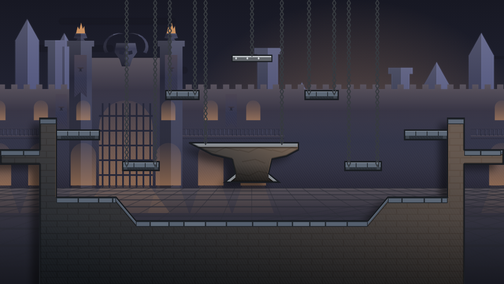
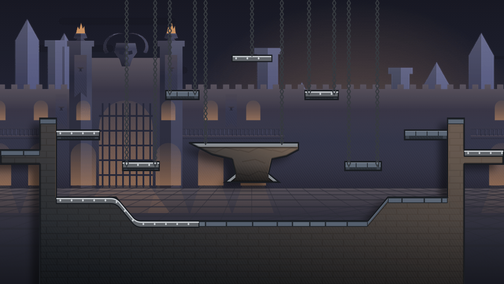
Cartoline delle mappe dell'allenamento col ferro nuovo, controllo in pari, GIOCA senza testo piccolo (#441)
* Cartoline delle mappe dell'allenamento col ferro nuovo, e il controllo che le tiene in pari

Claude-Session: https://claude.ai/code/session_01XmXLjjyDe991ytzD7vmWfG

* GIOCA della campagna: il sottotitolo non scende più sotto i 16 px

Claude-Session: https://claude.ai/code/session_01XmXLjjyDe991ytzD7vmWfG

---------

diff --git a/tools/grafica/miniature_mappe.py b/tools/grafica/miniature_mappe.py
@@ -8,8 +8,12 @@
 #
 #   python3 tools/grafica/miniature_mappe.py      (dalla cartella del repository, dopo
 #                                                      mappe_dipinte.py)
-import json, os, subprocess
-from PIL import Image
+#   python3 tools/grafica/miniature_mappe.py --controlla    (solo il controllo, in tutti.sh:
+#                     dice se una mappa è stata ridipinta e la sua cartolina no; Sergio, 26 nov)
+import hashlib, json, os, subprocess, sys
+# il controllo (--controlla) gira anche dove non c'è Pillow (GitHub)
+if "--controlla" not in sys.argv:
+    from PIL import Image
 
 QUI = os.path.dirname(os.path.abspath(__file__))
 RADICE = os.path.abspath(os.path.join(QUI, "..", ".."))
@@ -74,19 +78,54 @@ def cartolina(mappa, sfondo):
     return im.resize((W, H), Image.LANCZOS)
 
 
+# Le impronte di quello che fa ogni cartolina (i dipinti che usa e questo strumento): se una
+# mappa viene ridipinta e la cartolina no, il controllo veloce lo dice
+IMPRONTE = os.path.join(QUI, "miniature_mappe.impronte.json")
+
+
+def impronta(mappa, sfondo):
+    h = hashlib.sha1()
+    h.update(open(os.path.abspath(__file__), "rb").read())
+    h.update(json.dumps(sfondo, sort_keys=True).encode())
+    file = [os.path.join(DIPINTI, "maps", "%s_1.png" % mappa["id"]),
+            os.path.join(DIPINTI, "backgrounds", "%s_cielo_1.png" % mappa["sfondo"])]
+    file += [os.path.join(DIPINTI, "backgrounds", "%s_%s_1.png" % (mappa["sfondo"], g["name"])) for g in sfondo["groups"]]
+    for f in file:
+        h.update(open(f, "rb").read())
+    return h.hexdigest()
+
+
+def controlla():
+    """Il controllo veloce: le cartoline sono quelle delle mappe di oggi?"""
+    dati = leggi()
+    vecchie = json.load(open(IMPRONTE)) if os.path.exists(IMPRONTE) else {}
+    da_rifare = [m["id"] for m in dati["mappe"] if vecchie.get(m["id"]) != impronta(m, dati["sfondi"][m["sfondo"]])]
+    if da_rifare:
+        print("cartoline delle mappe da rifare (%s): python3 tools/grafica/miniature_mappe.py" % ", ".join(da_rifare))
+        return False
+    print("cartoline delle mappe in pari con i dipinti")
+    return True
+
+
 def main():
     dati = leggi()
     os.makedirs(OUT, exist_ok=True)
-    righe = []
+    righe, impronte = [], {}
     for m in dati["mappe"]:
         f = os.path.join(OUT, m["id"] + ".png")
         cartolina(m, dati["sfondi"][m["sfondo"]]).convert("RGB").save(f, optimize=True)
         righe.append('images {\n  image: "/assets/maps/miniature/%s.png"\n}\n' % m["id"])
+        impronte[m["id"]] = impronta(m, dati["sfondi"][m["sfondo"]])
         print("scritta", os.path.relpath(f, RADICE))
     with open(ATLAS, "w") as a:
         a.write("".join(righe) + "margin: 2\nextrude_borders: 2\ninner_padding: 0\n")
     print("scritto", os.path.relpath(ATLAS, RADICE))
+    with open(IMPRONTE, "w") as f:
+        json.dump(impronte, f, indent=1, sort_keys=True)
+        f.write("\n")
 
 
 if __name__ == "__main__":
+    if "--controlla" in sys.argv:
+        sys.exit(0 if controlla() else 1)
     main()

diff --git a/docs/decisioni/cronologia.md b/docs/decisioni/cronologia.md
@@ -399,3 +399,5 @@ Un rigo per giorno e per PR. I dettagli stanno nei file delle aree.
 | 25 nov | **Editor e build del PC cercano il server sul VPS** (Sergio: «sul pc il gioco punta ancora al server in locale? sistemalo»): `server_url` di `game.project` è `ws://49.13.44.34/ws`; il simulatore usa sempre il suo server di prova (porta 8090), gli scenari non lo dicono più; tolto il cambio dell'indirizzo per la build web servita dal PC. | architettura.md, server.md, questa PR |
 | 26 nov | **Ferro in più, travi piegate e 12 punti di rinascita su Forgia, Fossa e Cortile; passaggio stretto allargato** (Sergio, scelte A b a). | gameplay.md, maps.lua, game.lua, mappe_dipinte.py, cortile.py, questa PR |
 | 26 nov | **La simulazione non usa più le potenze `^`** (partite diverse sul PC di Sergio cambiando solo i fine riga): `x * x` e `game.ipow`; controllo `tools/confronta/identica.py` in `tutti.sh` (niente `^`, partite identiche normali, senza JIT e con `pairs` a caso). | architettura.md, questa PR |
+| 26 nov | **Cartoline delle mappe dell'allenamento rifatte col ferro nuovo, e un controllo che le tiene in pari** (Sergio: «le anteprime non rispecchiano la mappa nuova»): `miniature_mappe.py --controlla` in `tutti.sh`, con le impronte dei dipinti come per le miniature delle missioni. | miniature_mappe.py, tutti.sh, questa PR |
+| 26 nov | **GIOCA della campagna: «<MISSIONE> · NUOVA» diventa solo il nome se non ci sta a 16 px** (Claude: il testo scendeva a 13,5 px, sotto kit.MIN_TEXT; NUOVA resta sulla carta della missione). Il sottotitolo dei pulsanti può avere versioni più corte. | kit.lua, campaign.lua, questa PR |

diff --git a/CLAUDE.md b/CLAUDE.md
@@ -34,7 +34,7 @@ bash tools/controlli/tutti.sh
 ```
 
 Deve finire con `OK` (sintassi e globali del Lua, controlli dell'editor, tutti i
-test Lua, le miniature delle missioni in pari con mappe e dipinti, `go vet`, `gofmt`, `go test ./server/`). Lo stesso controllo gira su
+test Lua, le miniature delle missioni e le cartoline delle mappe in pari con mappe e dipinti, `go vet`, `gofmt`, `go test ./server/`). Lo stesso controllo gira su
 GitHub dopo ogni merge su `main` (`.github/workflows/controlli.yml`); prima di una
 versione online si lancia a mano sul ramo (Actions > Controlli > Run workflow).
 Se diventa rosso su main, il thread che ha mergiato lo sistema subito.
